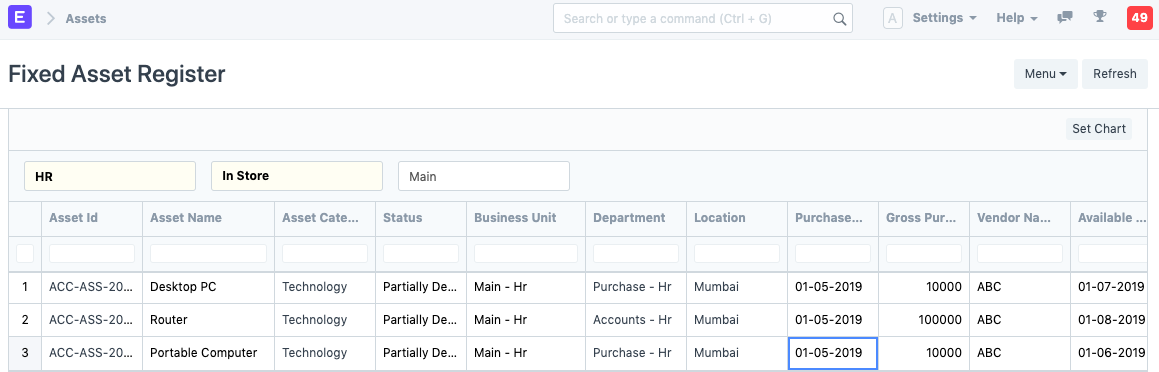
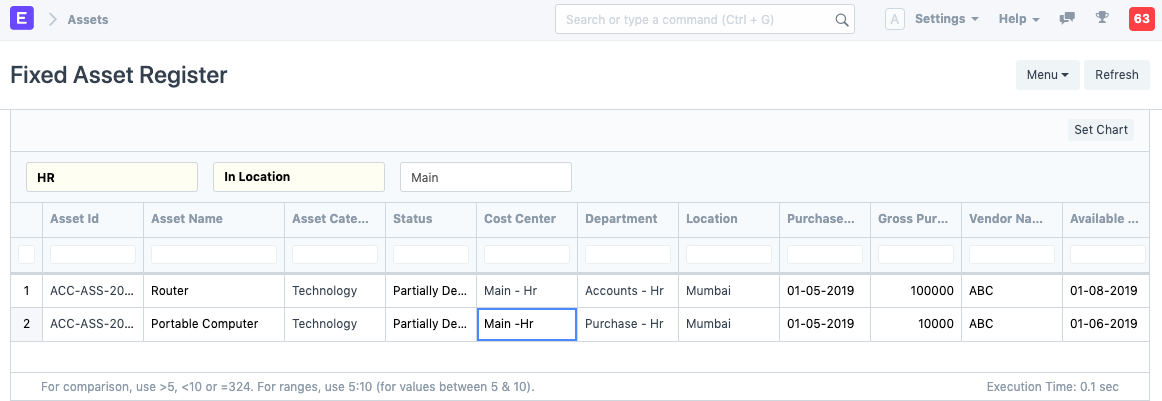
fix: moved fixed asset register to asset reports

diff --git a/erpnext_com/www/docs/user/manual/en/asset/asset-reports.md b/erpnext_com/www/docs/user/manual/en/asset/asset-reports.md
@@ -12,3 +12,15 @@ This report shows the Purchase Amount, Depreciated Amount and accumulated total 
 This report shows the cost of purchase, selling, and scrapping all assets based on [Asset Category](/docs/user/manual/en/asset/asset-category). The report also shows the depreciation details based on the selected period and the net value of the asset category.
 
 ![Asset Depreciations and Balances](/docs/assets/img/asset/asset-dep-balance.png)
+
+## Fixed Asset Register
+
+Fixed asset register provides a unified view of all the details regarding current status of an asset. A Fixed asset register tracks all the fixed assets that the you have created. This not only includes assets that are currently in your possession, but also tracks those assets that are disposed.
+
+Types of records based on depreciation:
+
+* ** In Location: All the assets that are currently in your possession are under this category.
+
+* ** Disposed: All the assets that are currently sold or scrapped come under this category.
+
+<img class="screenshot" alt="Asset" src="{{docs_base_url}}/assets/img/asset/fixed-asset-register.png">
